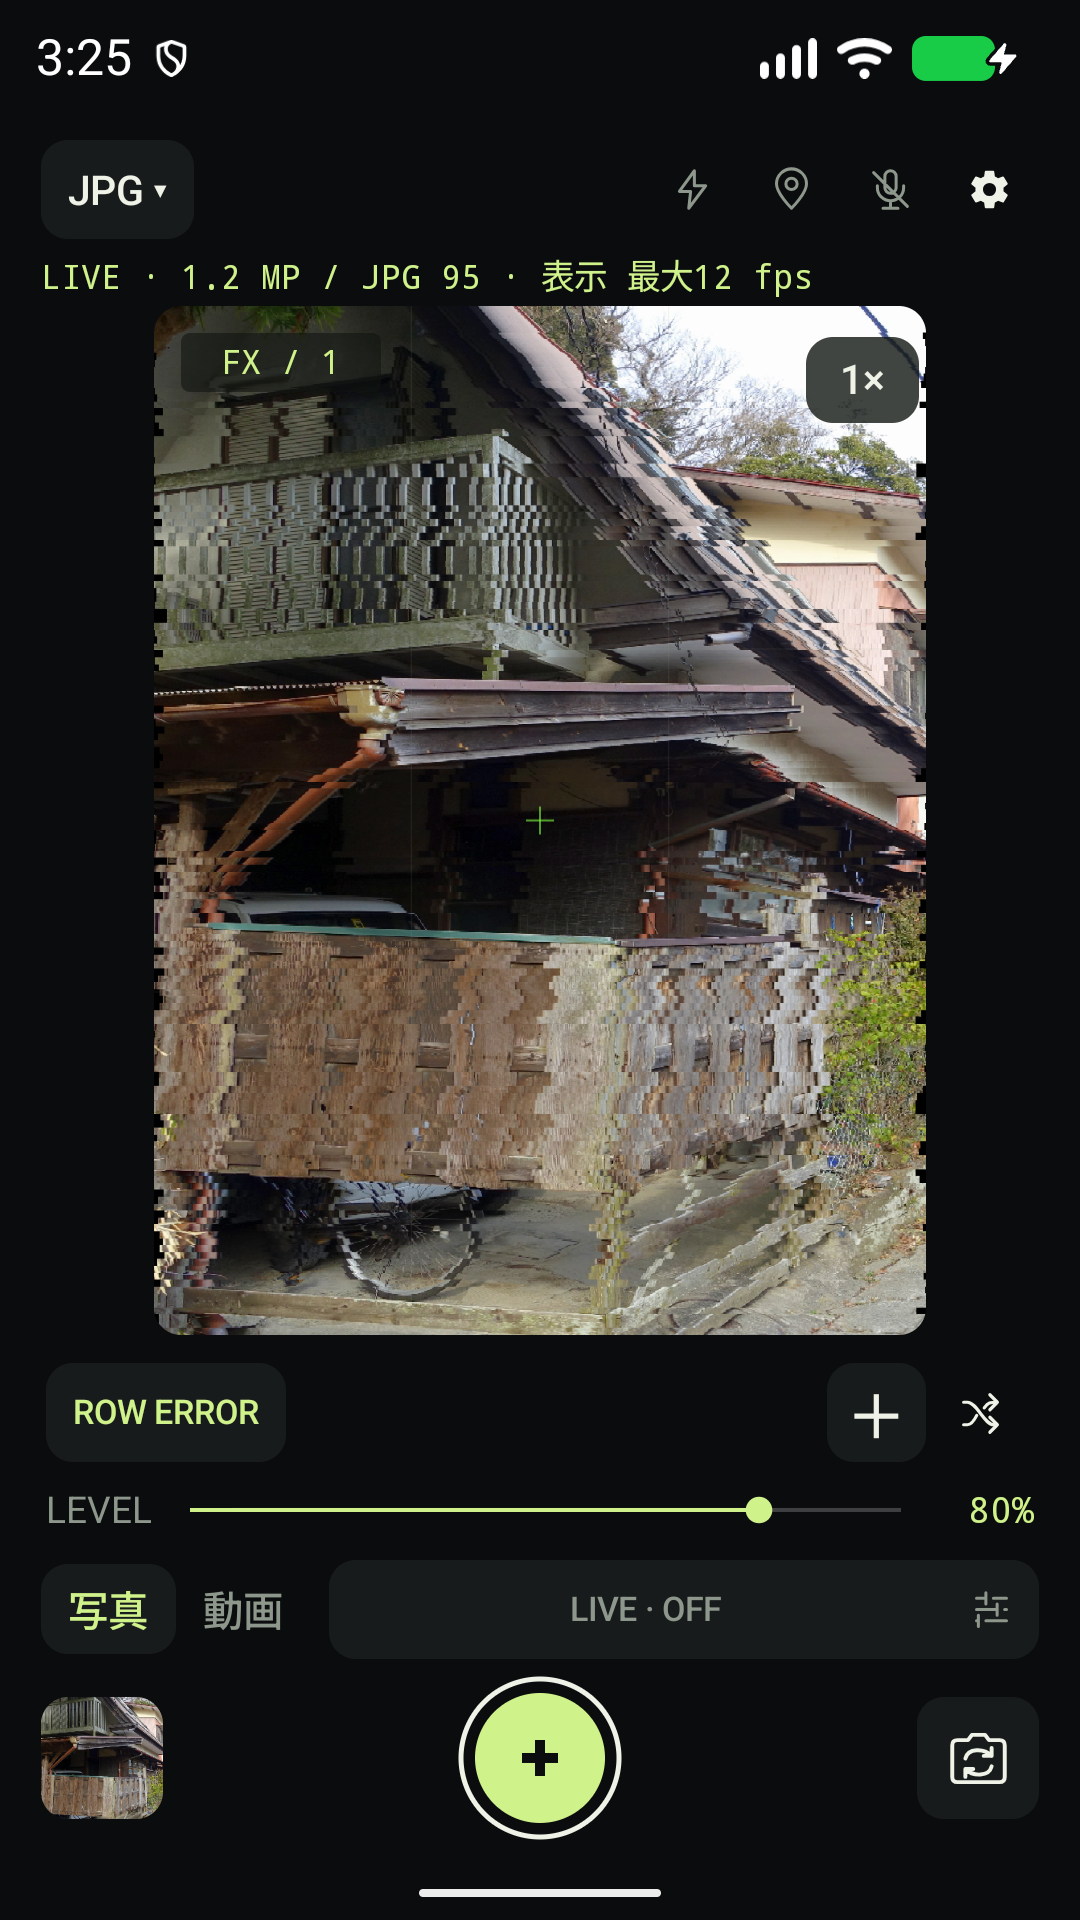
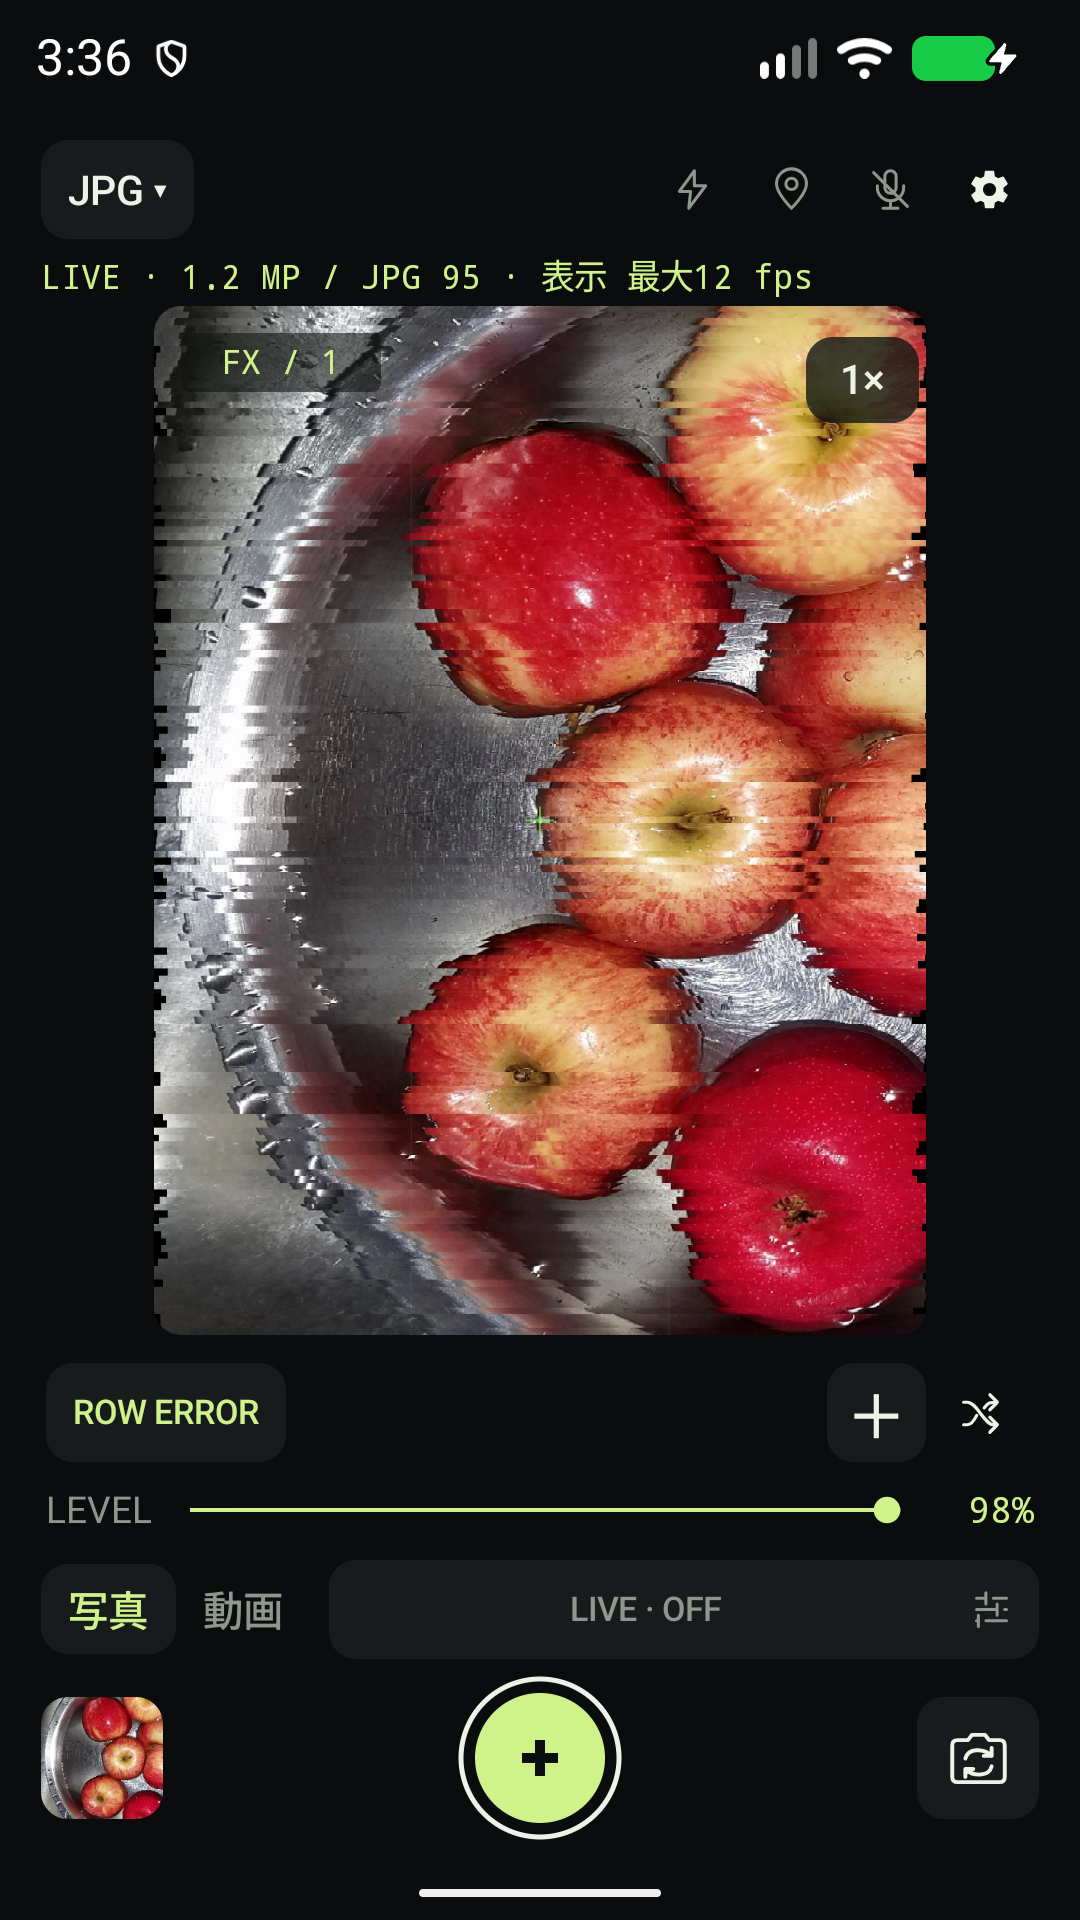
Use still-life app captures with stronger FAULT settings

diff --git a/index.html b/index.html
@@ -22,7 +22,7 @@
 <figure><div class="shot"><img src="assets/01-camera.png" width="1080" height="1920" loading="lazy" alt="効果なしのCLEAN撮影画面。元の街並みの画像"></div><figcaption><span class="shot-number">01 / CLEAN</span><h3>まず、素の景色。</h3><p>加工なしから始めて、変化を見比べる。</p></figcaption></figure>
 <figure><div class="shot"><img src="assets/02-row.png" width="1080" height="1920" loading="lazy" alt="ROW ERRORで街並みの画像の行をずらした撮影画面"></div><figcaption><span class="shot-number">02 / ROW ERROR</span><h3>読み出しを、ずらす。</h3><p>行のずれや欠落で、輪郭をほどく。</p></figcaption></figure>
 <figure><div class="shot"><img src="assets/03-chain.png" width="1080" height="1920" loading="lazy" alt="ROW ERRORにCHROMA ERRORとVHSを重ねた撮影画面"></div><figcaption><span class="shot-number">03 / CHAIN</span><h3>色も、質感も、重ねる。</h3><p>色のずれとVHSの質感で、違う表情へ。</p></figcaption></figure>
-</div><p class="image-note">画面は1.3.1開発版の実際のUIです。<a href="https://commons.wikimedia.org/wiki/File:Street_-_Nishi_Mikado_-_Kamakura,_Kanagawa,_Japan_-_DSC08400.JPG">Daderot撮影の鎌倉の路地（CC0）</a>をエミュレーターのカメラ入力に使用しています。</p></section>
+</div><p class="image-note">画面は1.3.1開発版の実際のUIです。<a href="https://commons.wikimedia.org/wiki/File:Apples_-_Massachusetts.jpg">Daderot撮影のリンゴの物撮り写真（CC0）</a>をエミュレーターのカメラ入力に使用しています。</p></section>
 <section id="recording" class="recording wrap" aria-labelledby="record-title"><div class="section-heading"><div><p class="eyebrow">TIME / INPUT / RECORDING</p><h2 id="record-title">信号の違いを、<br>そのまま扱う。</h2></div><a class="text-link" href="https://github.com/Bongorian/5igna1-release/blob/main/docs/design/FAULT_SYSTEM.ja.md">設計について読む ↗</a></div><div class="principles"><div><h3>時間を操作する。</h3><p>LIVEでは時間の進み方や変化量を設定し、動き・音量・カメラ時間・温度・処理負荷を任意で結合します。LIVEがOFFでも、FAULT固有の時間変化は進みます。</p></div><div><h3>見えている信号を残す。</h3><p>JPEGは撮影操作時の表示信号を確保して保存。通常動画も同じ処理画像を使います。解像度は対応するライブ出力に依存します。</p></div><div><h3>RAWは、別の表現。</h3><p>加工RAWはセンサーからCFAまでの6種類に対応。RAWは別露光で、RGBプレビューは近似です。原本RAWとRAW動画のDNG連番は無加工で残します。</p></div></div><p class="model-note">起点は実カメラの信号です。被写体の意味を推論して生成・補完する処理は行いません。RGB上のCFA／DEMOSAICは再モザイクによる近似、BLOCK／STREAMは復号画像の故障モデルです。実際の圧縮データや通信パケット、端末のハードウェアを破壊する機能ではありません。</p></section>
 <section class="private wrap" aria-labelledby="private-title"><div><p class="eyebrow">ON YOUR DEVICE</p><h2 id="private-title">作品は、あなたの端末に。</h2></div><div><p>画像処理と保存は端末内で。アカウント登録、広告、解析SDKはありません。アプリから開発者へ写真や動画を自動送信しません。</p><p>位置情報と音声は初期OFF。必要なときだけ有効にできます。OSやギャラリーの同期設定は別途ご確認ください。</p><a class="text-link" href="privacy/">プライバシーポリシーを読む <span aria-hidden="true">↗</span></a></div></section>
 <section id="join" class="download wrap" aria-labelledby="join-title"><p class="eyebrow">JOIN THE CLOSED TEST</p><h2 id="join-title">あなたの端末で、<br>試してみませんか。</h2><p>この故障モデルを、さまざまな端末と被写体で確かめるクローズドテストです。</p><div class="test-details"><div><h3>試してほしいこと</h3><p>FAULTを選び、重ね、時間とともに観察する。<br>写真・動画の保存結果まで確かめる。</p></div><div><h3>教えてほしいこと</h3><p>故障の表情、操作と結果のつながり、<br>保存や動作で気になったこと。</p></div><div><h3>必要なもの</h3><p>Android 12以降のカメラ搭載端末。<br>RAWなどの対応機能は端末により異なります。</p></div></div><a class="button primary" href="https://docs.google.com/forms/d/e/1FAIpQLSe3DG5H0_nYEP9pk1v1bQU3BytAQWtgAYScoBTCsI9YMPtdsA/viewform">テスト参加を申し込む <span aria-hidden="true">↗</span></a><p class="download-help">Googleフォームへ進みます。参加登録に使うメールアドレスをお知らせください。<br>お申し込み後、参加条件と手順をご案内します。</p><p class="distribution-note">Google Playのクローズドテストです。参加は登録・案内後となります。</p></section>

diff --git a/ASSETS.md b/ASSETS.md
@@ -3,9 +3,9 @@
 Updated 2026-09-09 for the 5igna1 closed-test recruitment page.
 
 - `assets/icon.png`: existing 5igna1 logo from the main repository, Apache-2.0. See main `docs/audit/ASSETS.md`.
-- `assets/01-camera.png`, `02-row.png`, `03-chain.png`: unedited 1080×1920 captures of the current 1.3.1 development UI, generated by existing `DeviceChecks` instrumentation (`action=screenshots`) on Android Emulator API 37. Camera source: `-camera-back imagefile:<source-street.jpg> -camera-front none`. CLEAN / ROW ERROR / ROW ERROR + CHROMA ERROR + VHS. Effects are processed by the actual app; no UI was composited and no effect was painted into the screenshots. The HTML scales images and clips the lower part of gallery previews; the hero shows a complete capture.
-- Photograph fed to the camera: **Street - Nishi Mikado - Kamakura, Kanagawa, Japan - DSC08400.JPG**, by **Daderot**, original size 5472×3648. **CC0 1.0 Universal Public Domain Dedication**, verified in the file's Licensing section. Ordinary residential lane, no visible people. Source: https://commons.wikimedia.org/wiki/File:Street_-_Nishi_Mikado_-_Kamakura,_Kanagawa,_Japan_-_DSC08400.JPG . Original file: https://upload.wikimedia.org/wikipedia/commons/6/67/Street_-_Nishi_Mikado_-_Kamakura%2C_Kanagawa%2C_Japan_-_DSC08400.JPG . The camera crops/scales the source and the app applies its FAULT processing.
-- The original camera source photo is retained in the local application verification folder; the public site contains the captured app UI only. The gallery caption links to the source and states that the image was supplied to an emulator, not captured at that location on a physical phone.
+- `assets/01-camera.png`, `02-row.png`, `03-chain.png`: unedited 1080×1920 captures of the current 1.3.1 development UI, generated by existing `DeviceChecks` instrumentation (`action=screenshots`) on Android Emulator API 37. Camera source: `-camera-back imagefile:<source-still-life.jpg> -camera-front none`. CLEAN / ROW ERROR (LEVEL 98%) / ROW ERROR + CHROMA ERROR + VHS (LEVEL 95%). The capture-only instrumentation settings were temporarily increased for this page and restored afterward. Effects are processed by the actual app; no UI was composited and no effect was painted into the screenshots. The HTML scales images and clips the lower part of gallery previews; the hero shows a complete capture.
+- Photograph fed to the camera: **Apples - Massachusetts.jpg**, by **Daderot**, original size 2240×2240. **CC0 1.0 Universal Public Domain Dedication**, verified in the file's Licensing section. Overhead still life of red/yellow apples in a metal bowl, no people or logos. Source: https://commons.wikimedia.org/wiki/File:Apples_-_Massachusetts.jpg . Original file: https://upload.wikimedia.org/wikipedia/commons/e/ea/Apples_-_Massachusetts.jpg . The camera crops/scales the source and the app applies its FAULT processing.
+- The original camera source photo is retained in the local application verification folder; the public site contains the captured app UI only. The gallery caption links to the source and states that the image was supplied to an emulator, not photographed live on a physical phone.
 - App interface: project Apache-2.0. Android system interface: Android Open Source Project, Apache-2.0. Photograph: CC0. See LICENSE and NOTICE.
 - No generated artwork, external fonts, stock image services, analytics, cookies or JavaScript libraries are embedded. The recruitment button links to the owner's Google Form.
 
